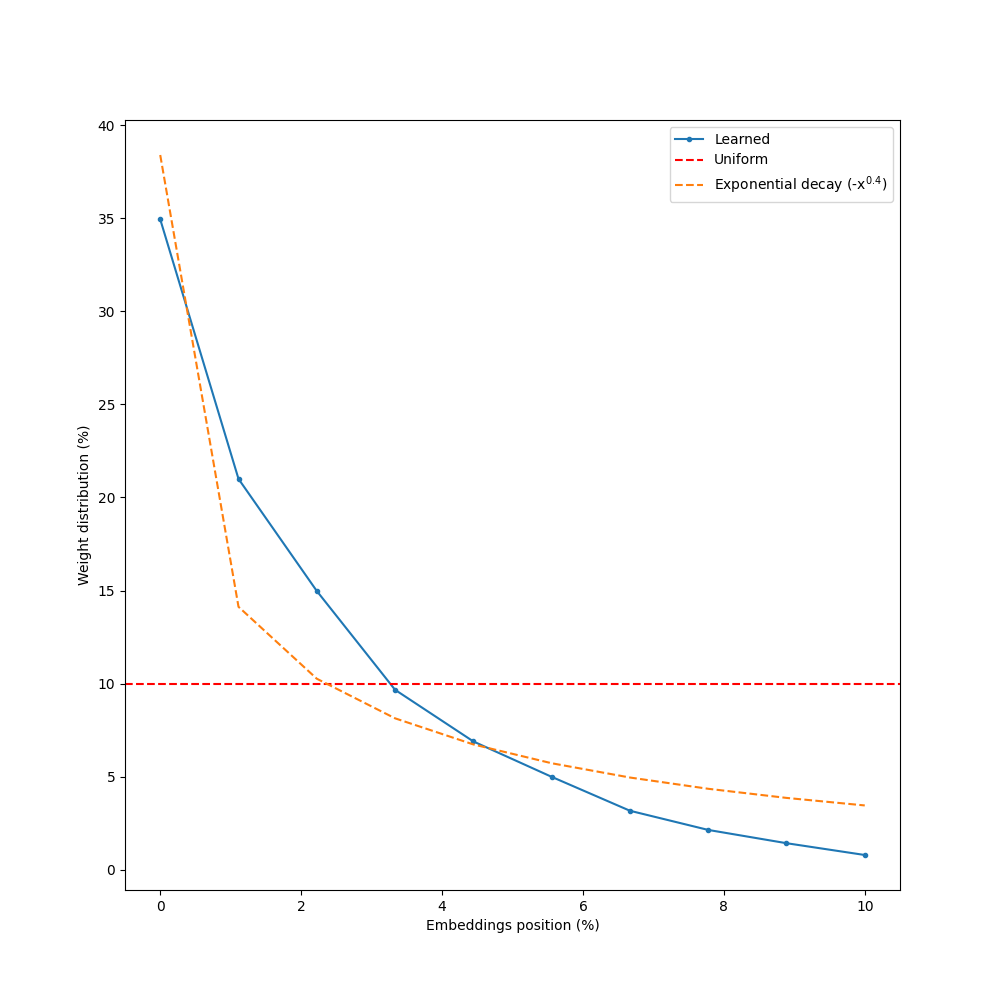
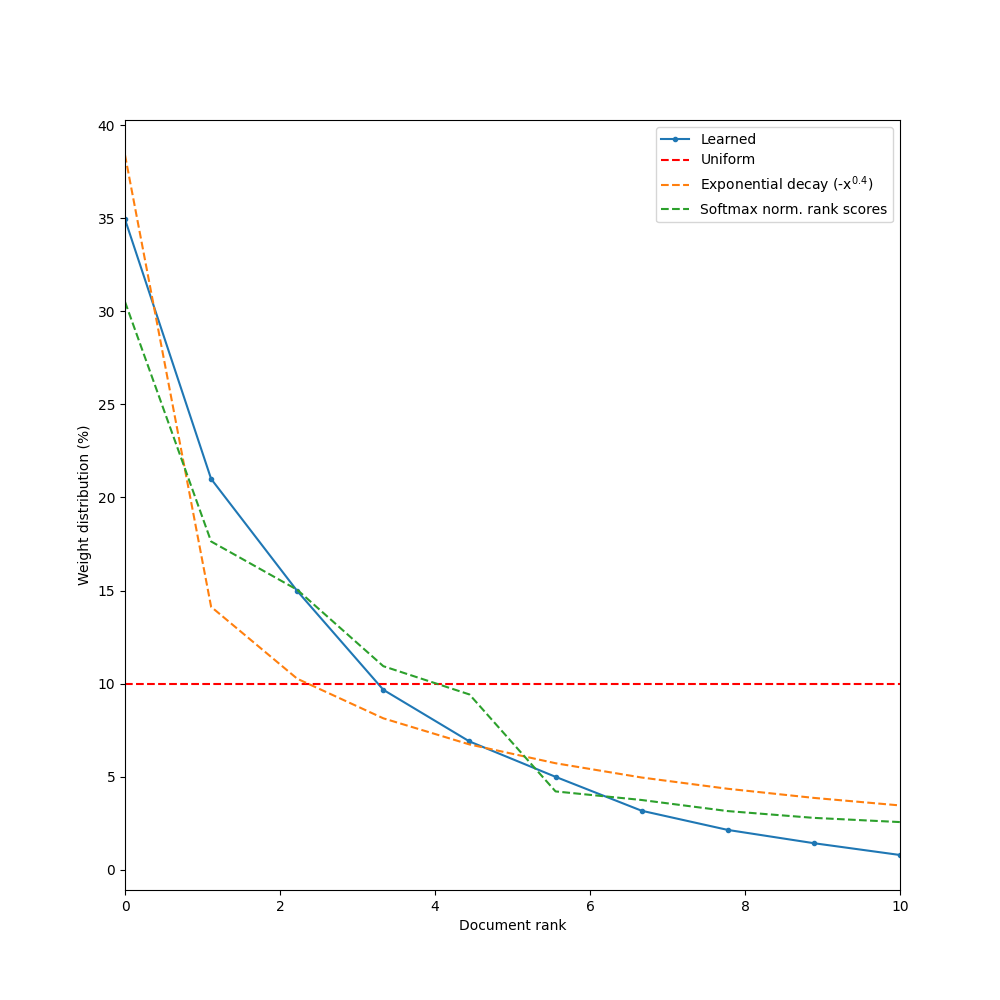
f plots

diff --git a/plot_data/weight_methods.py b/plot_data/weight_methods.py
@@ -20,40 +20,43 @@ def parse_args():
 
 
 def plot(data: Dict[str, Any]):
+    n_docs = data["n_docs"]
+    weights = data["weights"]
+    pos_scores = data["pos_scores"]
+
     fig, ax = plt.subplots(1, 1, figsize=(10, 10))
+    ax.set_xlim(0, n_docs)
 
-    ax.set_xlabel('Embeddings position (%)')
+    ax.set_xlabel('Document rank')
     ax.set_ylabel('Weight distribution (%)')
-    
-    # For each n_docs, plot the weights of the embeddings as a line plot with dots. The first element should be left and the last should be right.
-    for i in range(len(data)):
-        n_docs = data[i]["n_docs"]
-        weights = data[i]["weights"]
 
-        # Normalize weights
-        weights_normalized = np.array(weights)
-        weights_normalized = weights_normalized / np.sum(weights_normalized) * 100
+    # Normalize weights
+    weights_normalized = np.array(weights)
+    weights_normalized = weights_normalized / np.sum(weights_normalized) * 100
 
-        # Normalize x-axis values
-        x_values = np.linspace(0, n_docs, len(weights_normalized))
+    # Ignore the first element and normalize
+    weights = np.array(weights[1:])
+    weights = weights / np.sum(weights) * 100
+    x_values = np.linspace(0, n_docs, len(weights))
 
-        # Ignore the first element and normalize
-        weights = np.array(weights[1:])
-        weights = weights / np.sum(weights) * 100
-        x_values_ignored = np.linspace(0, 10, len(weights))
+    # Plot the weights as a line plot with dots
+    ax.plot(x_values, weights, marker='.', label=f"Learned")
 
-        # Plot the weights as a line plot with dots
-        ax.plot(x_values_ignored, weights, marker='.', label=f"Learned")
+    # Add a horizontal line for uniform weight distribution
+    uniform_weight = 100 / len(weights)
+    ax.axhline(y=uniform_weight, color='r', linestyle='--', label='Uniform')
 
-        # Add a horizontal line for uniform weight distribution
-        uniform_weight = 100 / len(weights)
-        ax.axhline(y=uniform_weight, color='r', linestyle='--', label='Uniform')
+    # Add exponential weight distribution
+    exp_factor = 0.4
+    exponential_approximation = np.array([np.exp(-i**exp_factor) for i in range(len(weights))])
+    exponential_approximation = exponential_approximation / np.sum(exponential_approximation) * 100
+    ax.plot(x_values, exponential_approximation, linestyle='--', label=f'Exponential decay (-x$^{{{exp_factor}}}$)')
 
-        # Add exponential weight distribution
-        exp_factor = 0.4
-        exponential_approximation = np.array([np.exp(-i**exp_factor) for i in range(len(weights))])
-        exponential_approximation = exponential_approximation / np.sum(exponential_approximation) * 100
-        ax.plot(x_values_ignored, exponential_approximation, linestyle='--', label=f'Exponential decay (-x$^{{{exp_factor}}}$)')
+    # Normalize and softmax position scores and plot them as weight distribution
+    pos_scores = np.array(pos_scores)
+    pos_scores_normalized = pos_scores / np.sum(pos_scores) * 100
+    softmax_pos_scores = np.exp(pos_scores_normalized) / np.sum(np.exp(pos_scores_normalized)) * 100
+    ax.plot(x_values, softmax_pos_scores, linestyle='--', label='Softmax norm. rank scores')
 
     ax.legend()
 
@@ -62,13 +65,11 @@ def plot(data: Dict[str, Any]):
 
 
 def main(args: argparse.Namespace) -> None:
-    data = [
-        {
-            "n_docs": 10,
-            "weights": [0.8738, 0.0441, 0.0265, 0.0189, 0.0122, 0.0087, 0.0063, 0.0040, 0.0027, 0.0018, 0.0010],
-            "pos_scores": [29.11000671, 27.71860574, 27.31457273, 26.505415, 26.12595619, 24.08121221, 23.78653777, 23.34701436, 23.03488101, 22.8207384]
-        },
-    ]
+    data = {
+        "n_docs": 10,
+        "weights": [0.8738, 0.0441, 0.0265, 0.0189, 0.0122, 0.0087, 0.0063, 0.0040, 0.0027, 0.0018, 0.0010],
+        "pos_scores": [29.11000671, 27.71860574, 27.31457273, 26.505415, 26.12595619, 24.08121221, 23.78653777, 23.34701436, 23.03488101, 22.8207384]
+    }
 
     plot(data)
 
